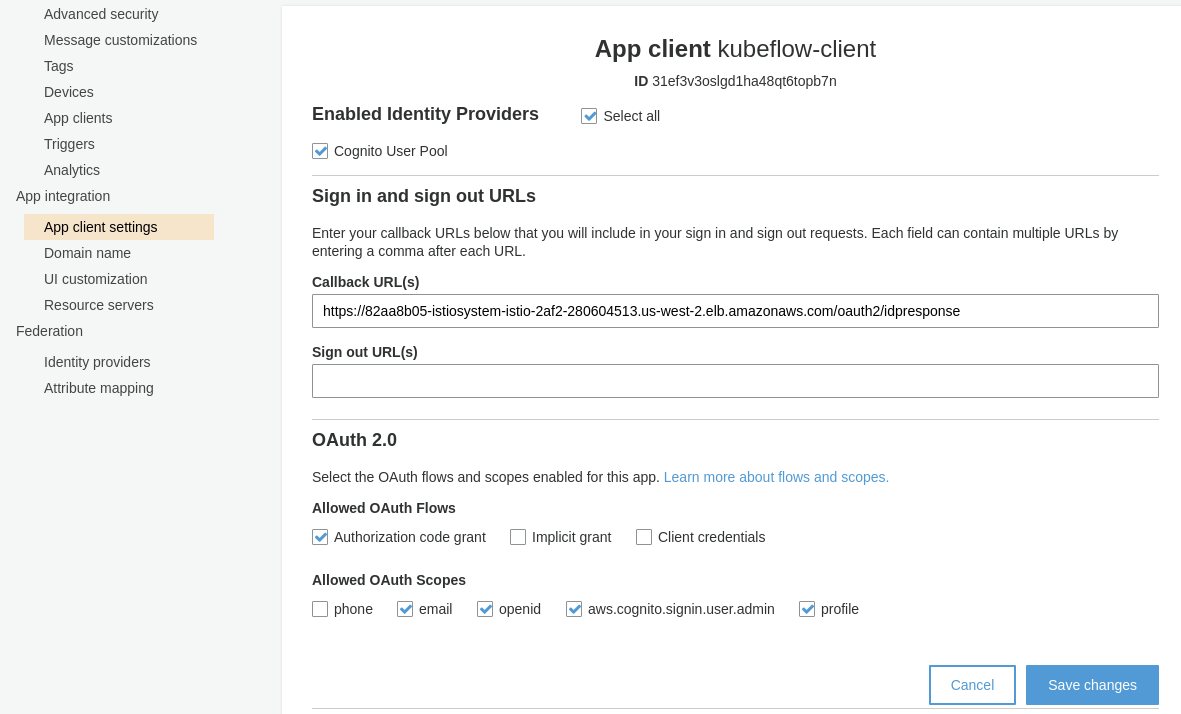
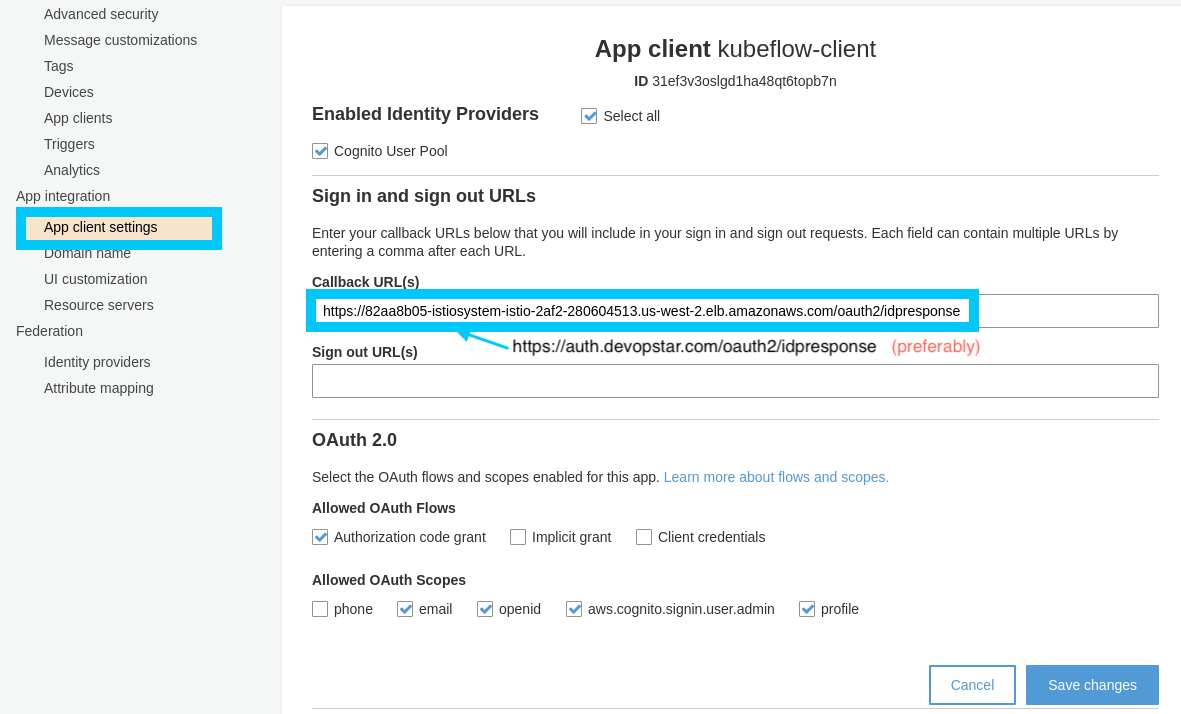
updated images

Changed region(s): [[0.2439, 0.4006, 0.8535, 0.493], [0.0, 0.2773, 0.2134, 0.3697]]

diff --git a/.blog/README.md b/.blog/README.md
@@ -186,6 +186,8 @@ Take this endpoint and contruct the following variation of it with the OAuth for
 ```bash
 https://${CLUSTER_ENDPOINT}/oauth2/idpresponse
 # https://82aa8b05-istiosystem-istio-2af2-280604513.us-west-2.elb.amazonaws.com/oauth2/idpresponse
+# OR
+# https://auth.devopstar.com/oauth2/idpresponse
 ```
 
 Back in the Cognito console under our `App client settings` insert the callback URL we just constructed
@@ -202,11 +204,9 @@ Finally we can navigate to the cluster endpoint that you retrieved from the `kub
 
 ### Get Started
 
-![Setup Kubeflow](img/kubeflow-get-started-01.png)
-
 Create the namespace `ekskubeflow`.
 
-![Setup Kubeflow Namespace](img/kubeflow-get-started-02.png)
+![Setup Kubeflow](img/kubeflow-get-started.png)
 
 Create a new Notebook
 
